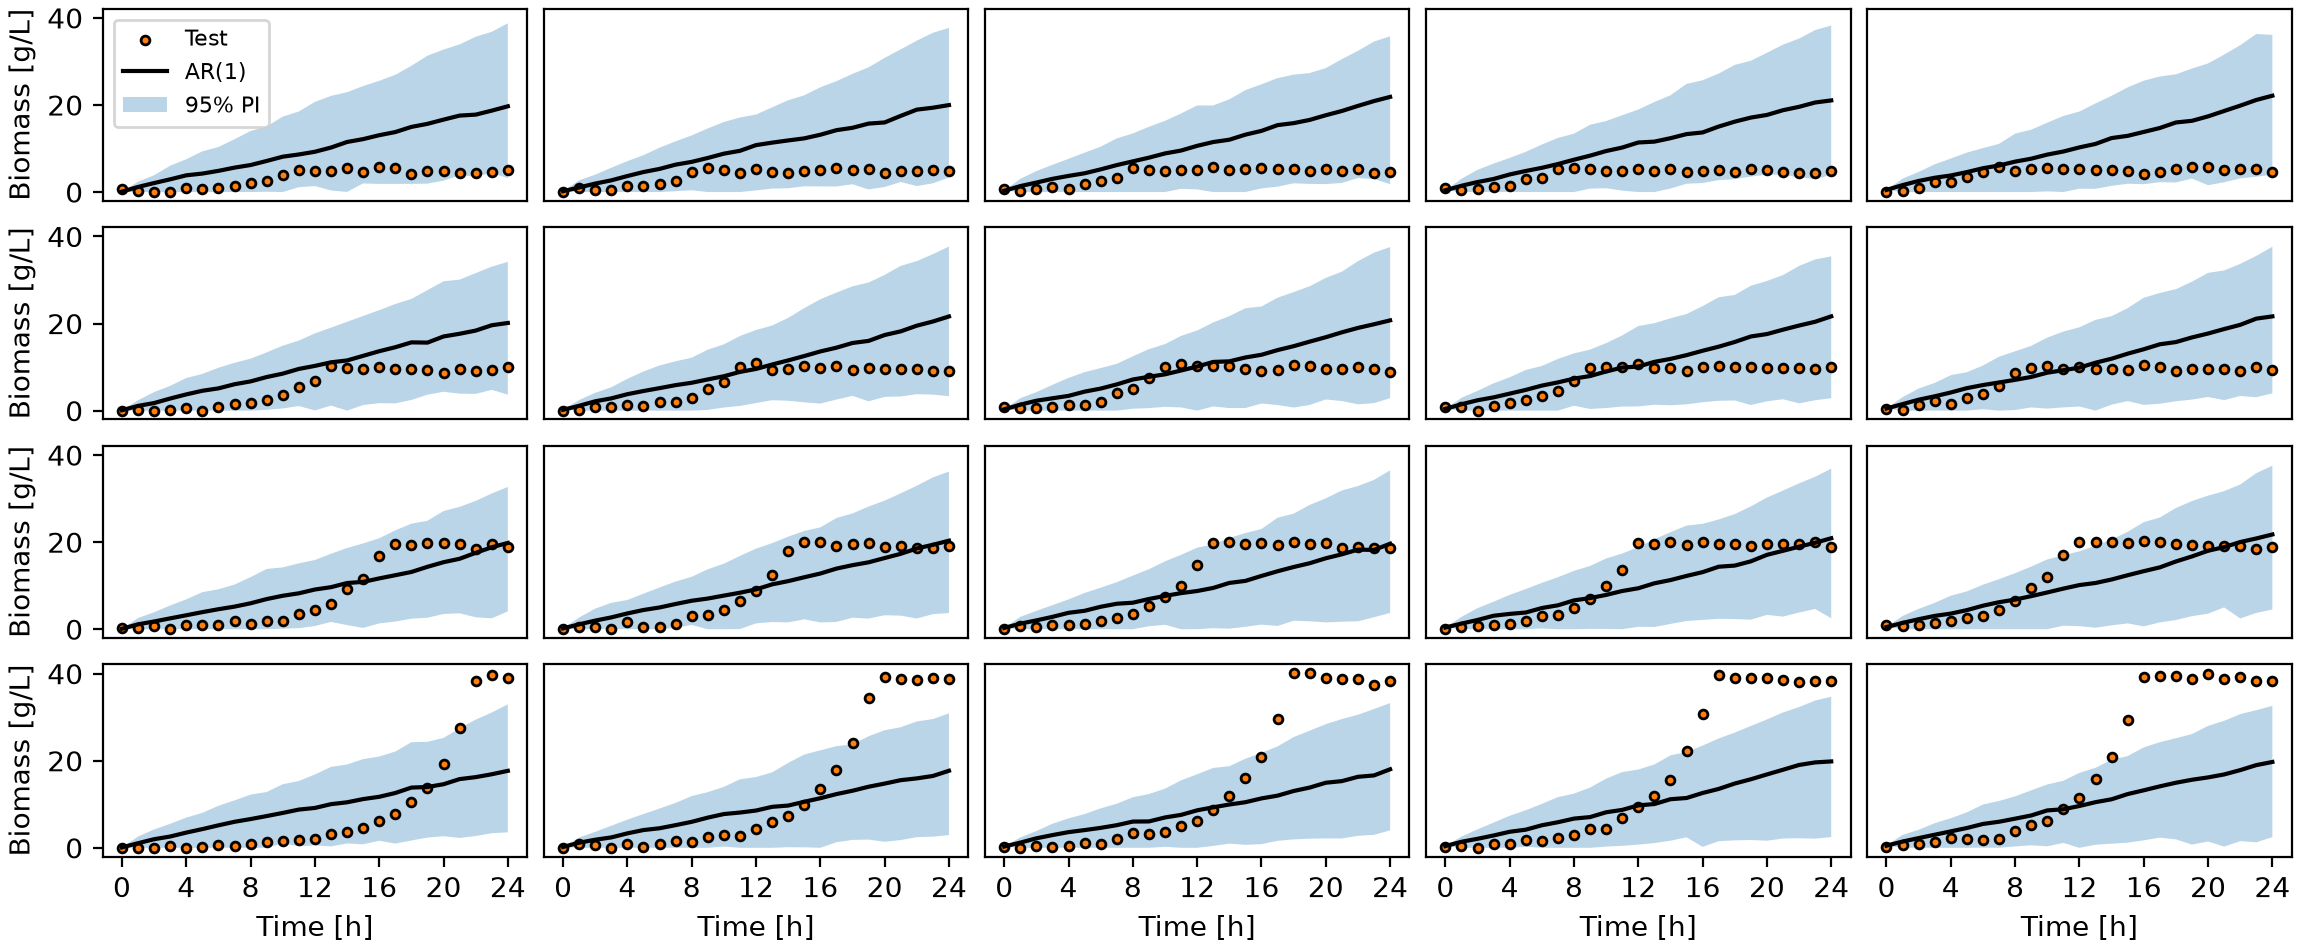
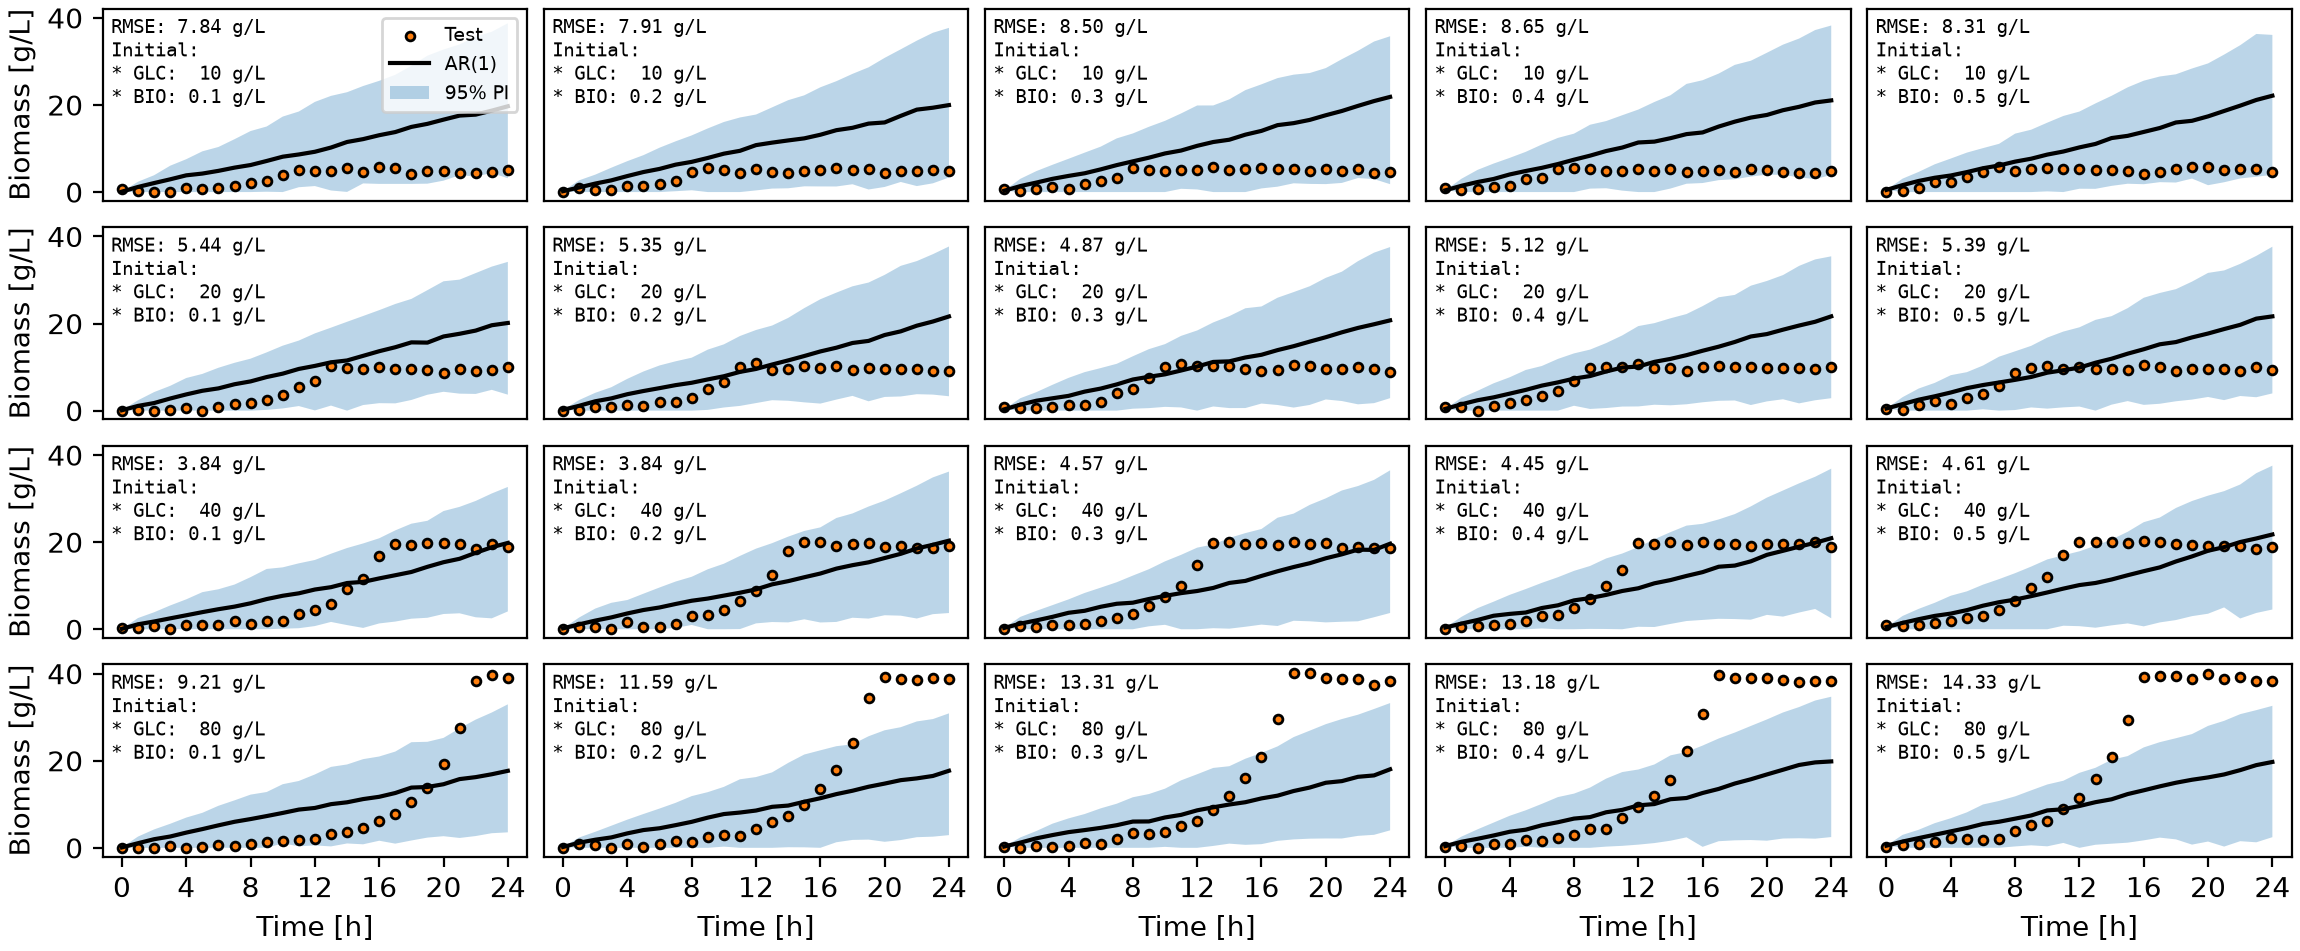
Updated Unit 5 > Main 2, 4

diff --git a/units/unit_05/main_04_forecast_uncertainty.py b/units/unit_05/main_04_forecast_uncertainty.py
@@ -20,6 +20,7 @@ import pandas as pd
 from matplotlib import pyplot as plt
 from matplotlib.ticker import MultipleLocator
 from sklearn.linear_model import LinearRegression
+from sklearn.metrics import root_mean_squared_error
 from sklearn.pipeline import make_pipeline
 
 from units.unit_05.src.classes import StandardScalerAR
@@ -39,6 +40,7 @@ batch_ids = np.unique(df.loc[:, "Batch ID"])
 
 # Select the time series feature of interest
 feature = "Biomass [g/L]"
+units = feature.split(" [")[-1][:-1]
 
 # Fraction of predictions to visualize
 prediction_interval = 0.95
@@ -59,6 +61,7 @@ for p in range(1, 4):
     fig, axes = plt.subplots(nrows, ncols, figsize=((29.21 / 2.54), (12.09 / 2.54)), dpi=200, layout="constrained")
     y_min = 0
     y_max = np.max(df.loc[:, feature])
+    rmse_forecasts = []
 
     # Leave-one-batch-out cross-validation
     # One batch is excluded from training and used as the test dataset
@@ -80,10 +83,12 @@ for p in range(1, 4):
         # Identify the initial condition corresponding to the test batch
         idx_ic = df_ic.index[np.argmax(df_ic.loc[:, "Batch ID"] == batch_id_test)]
         x_initial = df_ic.at[idx_ic, feature]
+        initial_glucose = df_ic.at[idx_ic, "Glucose [g/L]"]
+        initial_biomass = df_ic.at[idx_ic, "Biomass [g/L]"]
 
         # Determine which subplot corresponds to the test batch initial conditions
-        i_ax = np.argmax(ic_glucose == df_ic.at[idx_ic, "Glucose [g/L]"])
-        j_ax = np.argmax(ic_biomass == df_ic.at[idx_ic, "Biomass [g/L]"])
+        i_ax = np.argmax(ic_glucose == initial_glucose)
+        j_ax = np.argmax(ic_biomass == initial_biomass)
         ax = axes[i_ax, j_ax]
 
         # Extract the data for the test batch
@@ -135,15 +140,28 @@ for p in range(1, 4):
         x_forecast_median = np.quantile(x_forecasts, q=0.5, axis=0)
         x_forecast_pi_higher = np.quantile(x_forecasts, q=1 - alpha / 2, axis=0)
 
-        # Plot actual values, forecasts, and prediction intervals
+        # Calculate RMSE
+        rmse_forecast = root_mean_squared_error(x_test, x_forecast_median)
+        rmse_forecasts.append(rmse_forecast)
+
+        message = f"RMSE: {rmse_forecast:.2f} {units}\n"
+        message += f"Initial:\n"
+        message += f"* GLC: {initial_glucose:3.0f} g/L\n"
+        message += f"* BIO: {initial_biomass:3.1f} g/L\n"
+
+        # Plot test values, forecast, and prediction intervals
         ax.scatter(t_test, x_test, label="Test", s=10, color="tab:orange", edgecolors="black", zorder=3)
         ax.plot(t_test, x_forecast_median, label=f"AR({p})", color="black", zorder=4)
         ax.fill_between(t_test, x_forecast_pi_lower, x_forecast_pi_higher, label=f"{prediction_interval:.0%} PI",
                         color="tab:blue", edgecolors="none", alpha=0.3, zorder=2)
 
+        # Print RMSE
+        ax.text(x=0.02, y=0.96, s=message, va='top', ha='left', transform=ax.transAxes, fontname="monospace",
+                fontsize=7)
+
         y_max = max(y_max, np.max(x_test), np.max(x_forecast_pi_higher))
 
-        print(f"{p = :2d} | {batch_id_test = :4d}")
+        # print(f"{p = :2d} | {batch_id_test = :4d}")
 
     # Apply consistent axis limits to all subplots
     y_range = y_max - y_min
@@ -166,7 +184,11 @@ for p in range(1, 4):
                 axes[i, j].set_yticks([])
 
             if i == 0 and j == 0:
-                axes[i, j].legend(fontsize=8)
+                axes[i, j].legend(loc="upper right", fontsize=7)
 
     fig.savefig(os.path.join("figures", f"figure_04_p{p:02d}.png"))
     plt.close(fig)
+
+    rmse_mean = np.mean(rmse_forecasts)
+    rmse_sd = np.std(rmse_forecasts)
+    print(f"{p = :2d} | RMSE (Forecast): {rmse_mean:6.2f} +/- {rmse_sd:6.2f} {units}")

diff --git a/units/unit_05/main_02_autoregressive_models.py b/units/unit_05/main_02_autoregressive_models.py
@@ -32,6 +32,7 @@ import pandas as pd
 from matplotlib import pyplot as plt
 from matplotlib.ticker import MultipleLocator
 from sklearn.linear_model import LinearRegression
+from sklearn.metrics import root_mean_squared_error
 from sklearn.pipeline import make_pipeline
 
 from units.unit_05.src.classes import StandardScalerAR
@@ -45,6 +46,7 @@ batch_ids = np.unique(df.loc[:, "Batch ID"])
 
 # Select the time series feature of interest
 feature = "Biomass [g/L]"
+units = feature.split(" [")[-1][:-1]
 
 # Import information describing the initial conditions of each batch
 df_ic = pd.read_csv(os.path.join("datasets", "dataset_cell_growth_time_series_ic.csv"))
@@ -61,6 +63,7 @@ for p in range(1, 4):
     fig, axes = plt.subplots(nrows, ncols, figsize=((29.21 / 2.54), (12.09 / 2.54)), dpi=200, layout="constrained")
     y_min = 0
     y_max = np.max(df.loc[:, feature])
+    rmse_forecasts = []
 
     # Leave-one-batch-out cross-validation
     # One batch is excluded from training and used as the test dataset
@@ -78,10 +81,12 @@ for p in range(1, 4):
         # Identify the initial condition corresponding to the test batch
         idx_ic = df_ic.index[np.argmax(df_ic.loc[:, "Batch ID"] == batch_id_test)]
         x_initial = df_ic.at[idx_ic, feature]
+        initial_glucose = df_ic.at[idx_ic, "Glucose [g/L]"]
+        initial_biomass = df_ic.at[idx_ic, "Biomass [g/L]"]
 
         # Determine which subplot corresponds to the test batch initial conditions
-        i_ax = np.argmax(ic_glucose == df_ic.at[idx_ic, "Glucose [g/L]"])
-        j_ax = np.argmax(ic_biomass == df_ic.at[idx_ic, "Biomass [g/L]"])
+        i_ax = np.argmax(ic_glucose == initial_glucose)
+        j_ax = np.argmax(ic_biomass == initial_biomass)
         ax = axes[i_ax, j_ax]
 
         # Extract the data for the test batch
@@ -117,9 +122,22 @@ for p in range(1, 4):
 
         x_forecast = np.array(x_forecast)
 
-        # Plot actual values and forecasts
+        # Calculate RMSE
+        rmse_forecast = root_mean_squared_error(x_test, x_forecast)
+        rmse_forecasts.append(rmse_forecast)
+
+        message = f"RMSE: {rmse_forecast:.2f} {units}\n"
+        message += f"Initial:\n"
+        message += f"* GLC: {initial_glucose:3.0f} g/L\n"
+        message += f"* BIO: {initial_biomass:3.1f} g/L\n"
+
+        # Plot test values and forecast
         ax.scatter(t_test, x_test, label="Test", s=10, color="tab:orange", edgecolors="black")
         ax.plot(t_test, x_forecast, label=f"AR({p})", color="black")
+
+        # Print RMSE
+        ax.text(x=0.02, y=0.96, s=message, va='top', ha='left', transform=ax.transAxes, fontname="monospace",
+                fontsize=7)
 
         y_max = max(y_max, np.max(x_forecast))
 
@@ -144,7 +162,11 @@ for p in range(1, 4):
                 axes[i, j].set_yticks([])
 
             if i == 0 and j == 0:
-                axes[i, j].legend(fontsize=8)
+                axes[i, j].legend(loc="upper right", fontsize=8)
 
     fig.savefig(os.path.join("figures", f"figure_02_p{p:02d}.png"))
     plt.close(fig)
+
+    rmse_mean = np.mean(rmse_forecasts)
+    rmse_sd = np.std(rmse_forecasts)
+    print(f"{p = :2d} | RMSE (Forecast): {rmse_mean:6.2f} +/- {rmse_sd:6.2f} {units}")

diff --git a/README.md b/README.md
@@ -9,6 +9,7 @@ Engineering* at the University of Ottawa.
 2. [Fundamentals of Python](#unit-2-fundamentals-of-python)
 3. [Data Analysis and Visualization in Python](#unit-3-data-analysis-and-visualization-in-python)
 4. [Introduction to Machine Learning](#unit-4-introduction-to-machine-learning)
+5. [Time Series Forecasting](#unit-5-time-series-forecasting)
 
 ## Assignments
 
